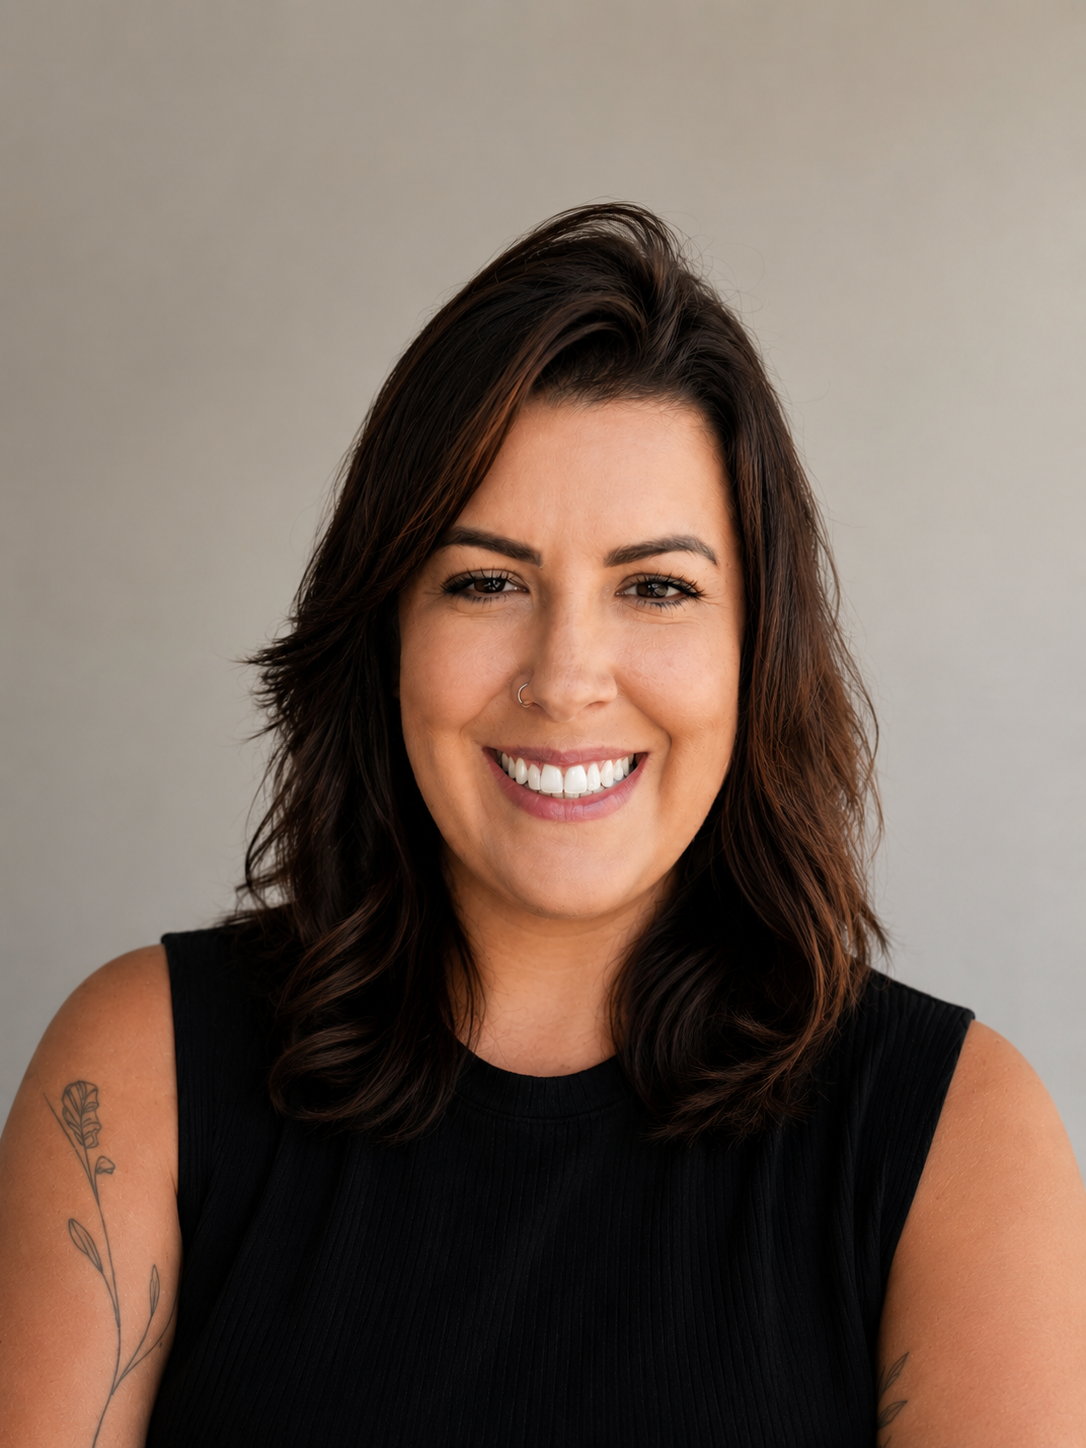
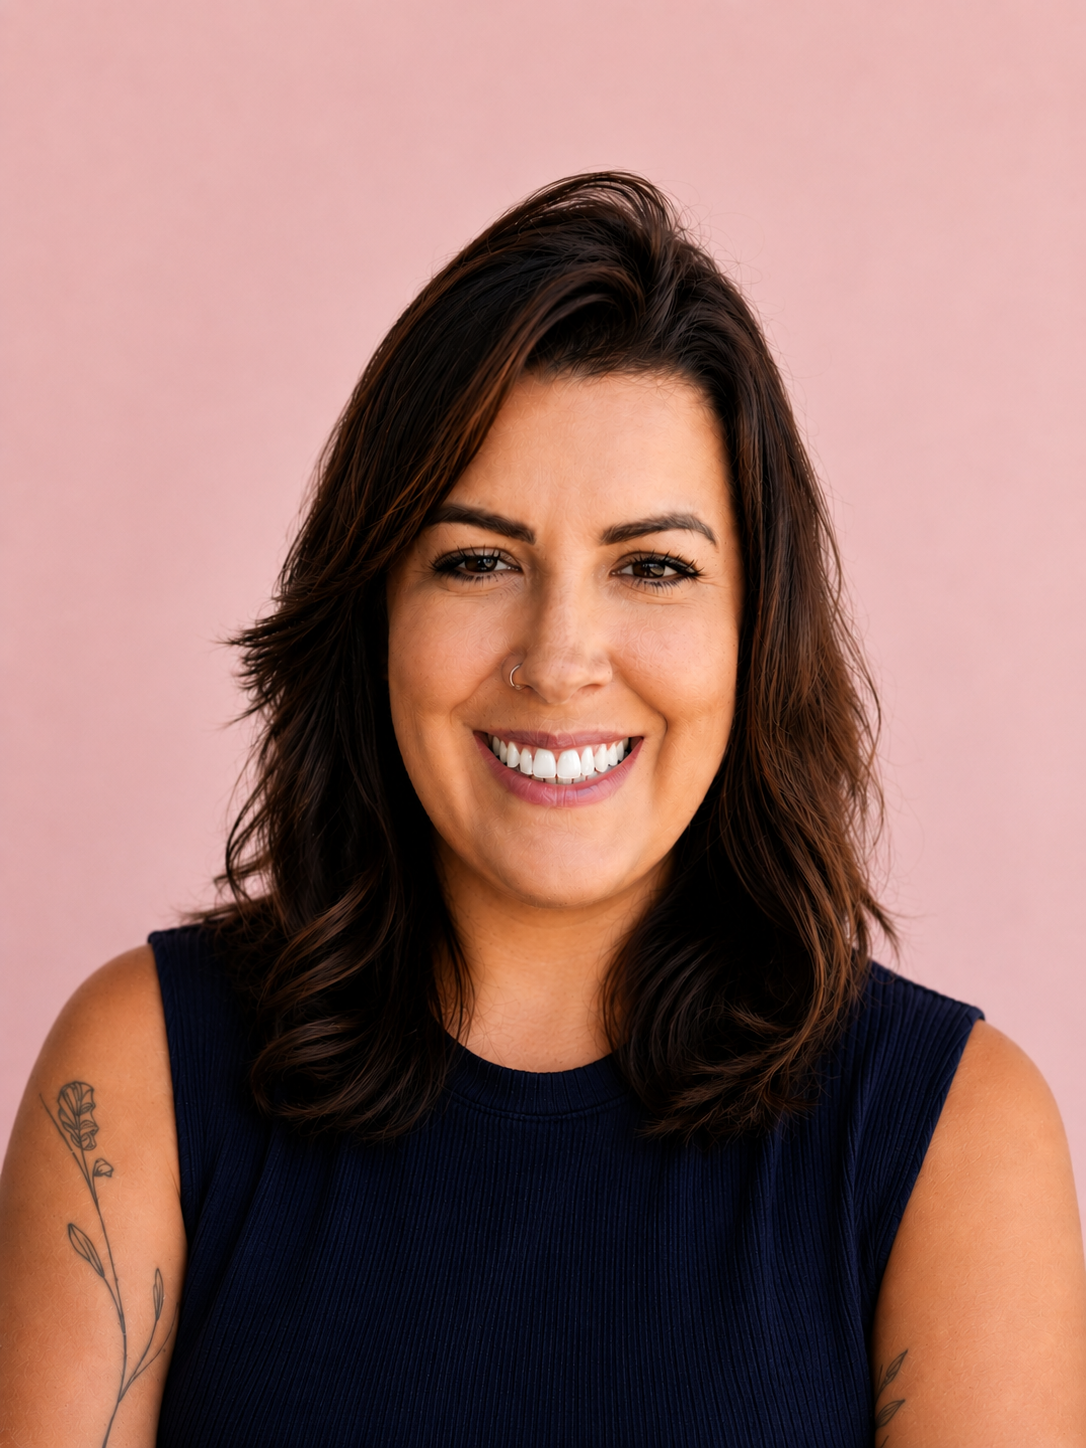
style: apply magenta accent color and standardize UI elements
- CaseCard/CaseCardCompact: 'Ver case' text → text-accent-magenta
- Blog: 'Ver todos os artigos' links → type-caption text-accent-magenta (matching card pattern)
- Blog: article category text → text-accent-magenta
- Skills: group headings → text-accent-magenta
- Racional: Divergir/Convergir labels → text-accent-magenta
- Experience: date/period → type-caption text-accent-magenta
- globals.css: update case-editorial-prose typography to match overview
- Update profile photo img_sobre.png

diff --git a/src/app/globals.css b/src/app/globals.css
@@ -231,30 +231,31 @@ body {
 
 /* ─── Editorial prose — case detailed view ───────────────────── */
 .case-editorial-prose h2 {
-  font-size: 1.375rem;
+  font-size: 1.625rem;
   font-weight: 540;
-  line-height: 1.30;
+  line-height: 1.35;
   letter-spacing: -0.26px;
   color: var(--fg);
-  margin-top: 3rem;
-  margin-bottom: 1rem;
+  margin-top: 6rem;
+  margin-bottom: 1.5rem;
 }
 .case-editorial-prose h2:first-child { margin-top: 0; }
 
 .case-editorial-prose h3 {
   font-size: 1.125rem;
   font-weight: 480;
-  line-height: 1.40;
+  line-height: 1.45;
+  letter-spacing: -0.26px;
   color: var(--fg);
   margin-top: 2rem;
   margin-bottom: 0.75rem;
 }
 
 .case-editorial-prose p {
-  font-size: 1.0625rem;
-  font-weight: 330;
-  line-height: 1.70;
-  letter-spacing: -0.14px;
+  font-size: 1.125rem;
+  font-weight: 320;
+  line-height: 1.45;
+  letter-spacing: -0.26px;
   color: var(--fg-muted);
   margin-bottom: 1rem;
 }

diff --git a/src/components/sections/Blog.tsx b/src/components/sections/Blog.tsx
@@ -20,7 +20,7 @@ function ArticleCard({ post, locale, t }: { post: BlogPost; locale: string; t: R
   const inner = (
     <div className="group flex flex-col h-full rounded-[16px] bg-surface-soft border border-black/10 p-6 transition-all duration-200 hover:-translate-y-1 hover:border-black/20 hover:shadow-[0_4px_20px_rgba(0,0,0,0.07)] focus-visible:outline-none focus-visible:ring-2 focus-visible:ring-fg">
       {/* Category */}
-      <span className="type-caption text-fg-muted mb-4 inline-block">
+      <span className="type-caption text-accent-magenta mb-4 inline-block">
         {post.category}
       </span>
 
@@ -93,9 +93,9 @@ export function BlogPreview({ posts }: Props) {
               href="https://medium.com/@marcelle.rdoss"
               target="_blank"
               rel="noopener noreferrer"
-              className="hidden sm:inline-flex items-center gap-2 type-body-sm text-fg shrink-0 hover:underline focus-visible:outline-none focus-visible:ring-2 focus-visible:ring-fg rounded"
+              className="hidden sm:inline-flex items-center gap-1.5 type-caption text-accent-magenta shrink-0 hover:underline underline-offset-2 focus-visible:outline-none focus-visible:ring-2 focus-visible:ring-fg rounded"
             >
-              {t('see_all')} <ArrowUpRight size={14} aria-hidden="true" />
+              {t('see_all')} <ArrowUpRight size={12} aria-hidden="true" />
             </a>
           </div>
 
@@ -124,9 +124,9 @@ export function BlogPreview({ posts }: Props) {
               href="https://medium.com/@marcelle.rdoss"
               target="_blank"
               rel="noopener noreferrer"
-              className="inline-flex items-center gap-2 type-body-sm text-fg hover:underline"
+              className="inline-flex items-center gap-1.5 type-caption text-accent-magenta hover:underline underline-offset-2"
             >
-              {t('see_all')} <ArrowUpRight size={14} aria-hidden="true" />
+              {t('see_all')} <ArrowUpRight size={12} aria-hidden="true" />
             </a>
           </div>
 

diff --git a/src/components/cases/CaseCard.tsx b/src/components/cases/CaseCard.tsx
@@ -74,7 +74,7 @@ export function CaseCard({
             </span>
           ))}
         </div>
-        <div className="mt-auto inline-flex items-center gap-1.5 type-caption text-fg-muted">
+        <div className="mt-auto inline-flex items-center gap-1.5 type-caption text-accent-magenta">
           <span>Ver case</span>
           <ArrowUpRight size={12} aria-hidden="true" className="shrink-0" />
         </div>

diff --git a/src/components/cases/CaseCardCompact.tsx b/src/components/cases/CaseCardCompact.tsx
@@ -72,7 +72,7 @@ export function CaseCardCompact({
             </span>
           ))}
         </div>
-        <div className="mt-auto inline-flex items-center gap-1.5 type-caption text-fg-muted">
+        <div className="mt-auto inline-flex items-center gap-1.5 type-caption text-accent-magenta">
           <span>Ver case</span>
           <ArrowUpRight size={12} aria-hidden="true" className="shrink-0" />
         </div>

diff --git a/src/components/sections/Experience.tsx b/src/components/sections/Experience.tsx
@@ -54,7 +54,7 @@ export function Experience({ items }: Props) {
                   <h3 className="type-body-strong text-fg">{item.role[locale]}</h3>
                   <p className="type-body-sm text-fg-muted">{item.company}</p>
                 </div>
-                <time className="type-body-sm text-fg-subtle shrink-0">
+                <time className="type-caption text-accent-magenta shrink-0">
                   {item.period.includes('Presente') && locale === 'en'
                     ? item.period.replace('Presente', t('present'))
                     : item.period}

diff --git a/src/components/sections/Racional.tsx b/src/components/sections/Racional.tsx
@@ -112,7 +112,7 @@ export function Racional() {
                   {num}
                 </div>
                 <div>
-                  <p className="type-caption text-fg-subtle mb-0.5">{type}</p>
+                  <p className="type-caption text-accent-magenta mb-0.5">{type}</p>
                   <p className="type-body-sm text-fg font-[480] leading-snug">{title}</p>
                 </div>
               </div>

diff --git a/src/components/sections/Skills.tsx b/src/components/sections/Skills.tsx
@@ -62,7 +62,7 @@ export function Skills() {
         >
           {categories.map(({ key, items }) => (
             <motion.div key={key} variants={fadeInUp}>
-              <h3 className="type-caption text-fg mb-4">
+              <h3 className="type-caption text-accent-magenta mb-4">
                 {t(key)}
               </h3>
               <motion.div